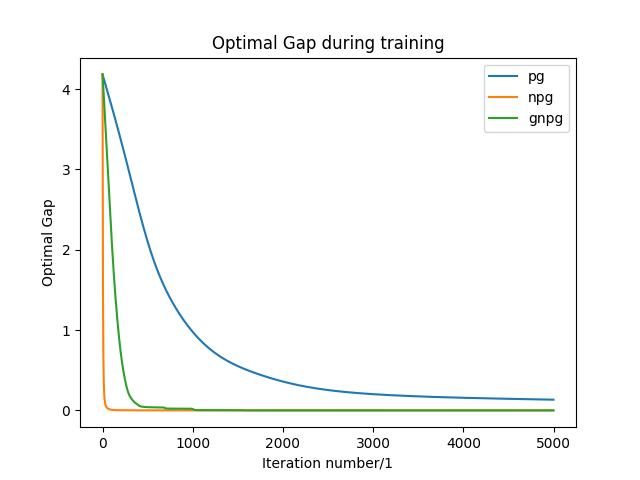
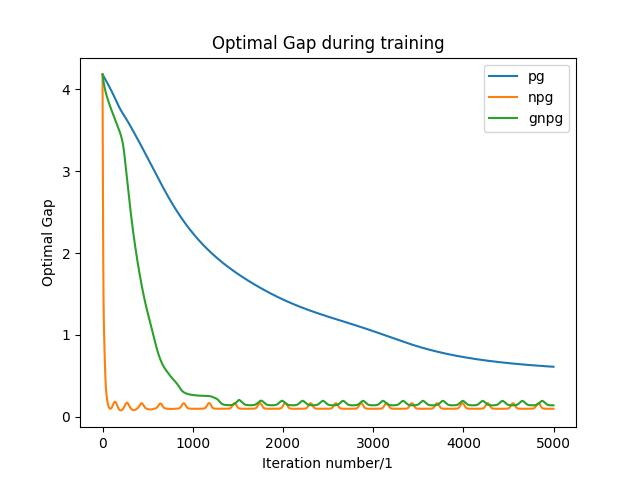
update mc npg

diff --git a/random_env/mc_pgs_cmdp_torch.py b/random_env/mc_pgs_cmdp_torch.py
@@ -9,8 +9,6 @@ import os
 from tqdm import tqdm
 import torch
 
-
-
 from mc_env_torch import MC_Env
 
 if __name__ == '__main__':
@@ -29,7 +27,7 @@ if __name__ == '__main__':
 
     ell_star = mc_env.get_optimum()
 
-    num_MC_sims = 50000
+    num_MC_sims = 500
     horizon = 50
     '''
     Policy gradient in action
@@ -39,17 +37,18 @@ if __name__ == '__main__':
     # Parameters for line search
     alpha = 0.01
     beta = 0.01
-    b = 4.
+    b = 6.
 
-    theta = torch.rand(num_state, num_action).to(device)
+    # theta = torch.rand(num_state, num_action).to(device)
+    theta = torch.tensor(np.random.uniform(0,1,size=(num_state,num_action))).float().to(device)
     gnpg_gap = []
     gnpg_violation = []
     start_time = time.time()
 
     for k in tqdm(range(0)):
-        grad_sum = torch.zeros_like(theta).to(device)  # Replace np.zeros_like
-        cum_rewards = torch.zeros(num_MC_sims).to(device)  # Replace np.zeros
-        cum_constrains = torch.zeros(num_MC_sims).to(device)  # Replace np.zeros
+        grad_sum = torch.zeros_like(theta).to(device)  
+        cum_rewards = torch.zeros(num_MC_sims).to(device)  
+        cum_constrains = torch.zeros(num_MC_sims).to(device)  
         states = torch.randint(0, num_state, (num_MC_sims,)).to(device) 
 
         rewards_list = []
@@ -76,7 +75,7 @@ if __name__ == '__main__':
             actions = actions_list[i]
             d_softmax = mc_env.theta_to_policy(theta)[states].clone()
 
-            d_softmax[np.arange(num_MC_sims),actions] -= 1
+            d_softmax[torch.arange(num_MC_sims).to(device),actions] -= 1
             d_theta = d_softmax * cum_returns_list[i].unsqueeze(-1)
             grad_sum[states] += torch.mean(d_theta,dim=0)
 
@@ -90,16 +89,15 @@ if __name__ == '__main__':
             gnpg_violation.append((b-avg_constrain).item())
 
 
-    theta = torch.rand(num_state, num_action).to(device)
-    # theta = torch.zeros(num_state,num_action).to(device)
+    theta = torch.tensor(np.random.uniform(0,1,size=(num_state,num_action))).float().to(device)
     lam = 0.0
     pg_gap = []
     pg_violation = []
     start_time = time.time()
     for k in tqdm(range(0)):
-        grad_sum = torch.zeros_like(theta).to(device)  # Replace np.zeros_like
-        cum_rewards = torch.zeros(num_MC_sims).to(device)  # Replace np.zeros
-        cum_constrains = torch.zeros(num_MC_sims).to(device)  # Replace np.zeros
+        grad_sum = torch.zeros_like(theta).to(device)  
+        cum_rewards = torch.zeros(num_MC_sims).to(device)  
+        cum_constrains = torch.zeros(num_MC_sims).to(device)  
         states = torch.randint(0, num_state, (num_MC_sims,)).to(device)
 
         rewards_list = []
@@ -138,6 +136,67 @@ if __name__ == '__main__':
             avg_reward,avg_constrain = mc_env.ell_theta(theta)
             pg_gap.append((ell_star-avg_reward).item())
             pg_violation.append((b-avg_constrain).item())
+
+    npg_gap = []
+    npg_violation= []
+    lam = 0.5
+    theta = torch.tensor(np.random.uniform(0,1,size=(num_state,num_action))).float().to(device)
+    values = torch.zeros(num_state).to(device)
+    q_values = torch.zeros((num_state,num_action)).to(device)
+    for k in tqdm(range(num_iter)):
+        for init_state in range(num_action):
+            cum_rewards = torch.zeros((num_action, num_MC_sims)).to(device)
+            cum_constrains = torch.zeros((num_action, num_MC_sims)).to(device)
+            states = torch.full((num_action, num_MC_sims), init_state, dtype=torch.int64).to(device)
+            actions = torch.arange(num_action).unsqueeze(1).repeat(1, num_MC_sims).to(device)
+            
+            rewards_list = []
+            actions_list = []
+            states_list = []
+            constrains_list = []
+            for i in range(horizon):
+                if i > 0:
+                    actions = mc_env.get_action(theta, states.reshape(-1)).view(num_action, num_MC_sims)
+                next_states, rewards, utilities = mc_env.env_step(states.reshape(-1), actions.reshape(-1))
+                next_states = next_states.view(num_action, num_MC_sims)
+                rewards = rewards
+                utilities = utilities
+
+                states_list.append(states)
+                actions_list.append(actions)
+                rewards_list.append(rewards)
+                constrains_list.append(utilities)
+                states = next_states
+            cum_returns_list = mc_env.compute_returns(rewards_list,constrains_list,lam)
+            cum_returns_final = cum_returns_list[0].reshape(num_action,-1)
+            for action in range(num_action):
+                q_values[init_state,action] = cum_returns_final[action].mean()
+        
+        values = torch.sum(q_values * mc_env.theta_to_policy(theta),dim=1)
+        advantage_mat = q_values - values[:,None]
+        
+        V_g_rho = 0
+        cum_rewards = 0
+        cum_constrains = 0
+        init_states = torch.multinomial(mc_env.rho, num_MC_sims, replacement=True)
+        states = init_states
+        for i in range(horizon):
+            actions = mc_env.get_action(theta,states)
+            next_states, rewards, utilities = mc_env.env_step(states,actions)
+            # cum_rewards = gamma*cum_rewards + rewards
+            cum_constrains += utilities
+            states = next_states
+        V_g_rho = cum_constrains.mean()
+        ### update with gradient
+        theta += alpha*advantage_mat/(1-gamma)
+        theta = mc_env.theta_to_policy(theta)
+        # pdb.set_trace()
+        lam = torch.maximum(lam-beta*(V_g_rho-b),torch.tensor(0.0).to(device))
+
+        if k % record_interval == 0:
+            avg_reward,avg_constrain = mc_env.ell_theta(theta)
+            npg_gap.append(ell_star-avg_reward)
+            npg_violation.append(b-avg_constrain)
 
     mc_env.plot_curve([pg_gap,gnpg_gap],
                       [pg_violation,gnpg_violation],['gnpg','pg'],method='softmax')

diff --git a/random_env/exact_gradient/pg_cmdp.py b/random_env/exact_gradient/pg_cmdp.py
@@ -30,10 +30,10 @@ if __name__ == '__main__':
     num_iter = 5000
     record_interval = 1
     # alpha is the lr for theta
-    alpha = 0.1
+    alpha = 0.05
     # beta is the lr for lamda
-    beta = 0.1
-    constrain_threshold = 5
+    beta = 0.05
+    constrain_threshold = 6
 
     # theta = np.random.uniform(0,1,size=num_state*num_action) ### information for policy compute
 
